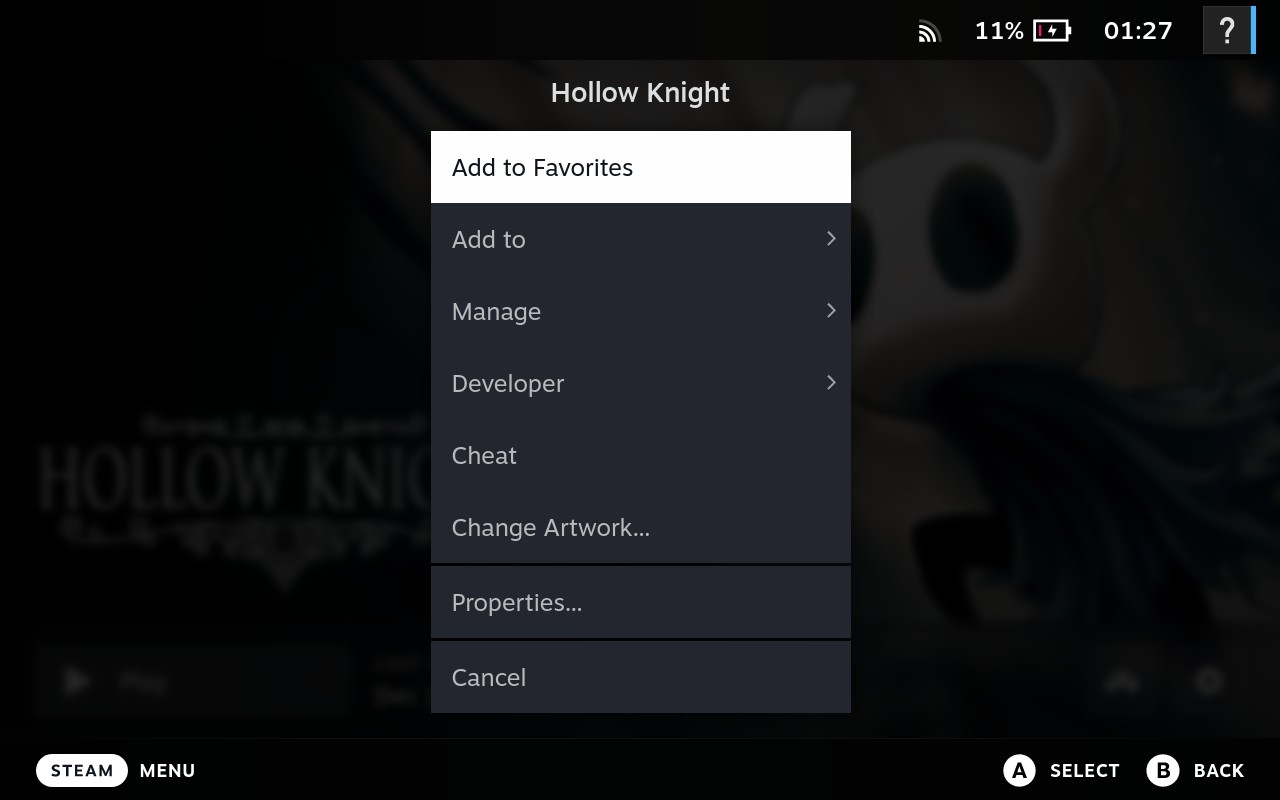
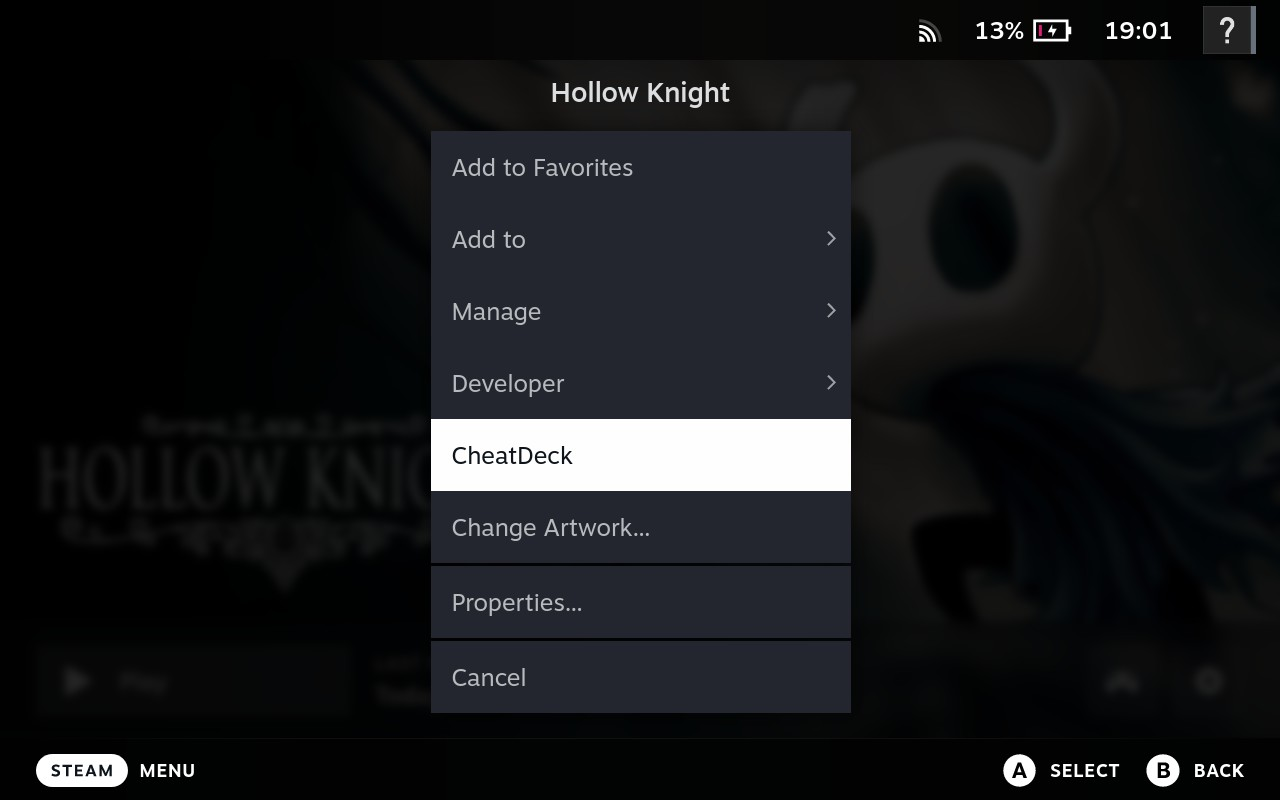
docs: more information

diff --git a/src/utils/patch.tsx b/src/utils/patch.tsx
@@ -24,7 +24,7 @@ const spliceMenuItem = (children: any[], appid: number) => {
         Navigation.Navigate(`/cheatdeck/${appid}`);
       }}
     >
-      Cheat
+      CheatDeck
     </MenuItem>
   ));
 };

diff --git a/README.md b/README.md
@@ -1,21 +1,21 @@
 # CheatDeck
-[Decky Loader](https://github.com/SteamDeckHomebrew/PluginLoader) Plugin to use cheat or trainer more conveniently, and provide language selection in game mode.
+[Decky Loader](https://github.com/SteamDeckHomebrew/PluginLoader) plugin to use cheat or trainer more conveniently, also provide  some other settings like language change in game mode.
 
 ## How to use it
 1. Enable the developer mode at steam system settings.
 2. Download the cheat or trainer you need in your steamdeck.
-3. Navigate to the game details menu, and find the `cheat` item.
-![Alt text](doc/menu.jpg)
+3. Navigate to the game details menu, and find the `CheatDeck` item.
+![](doc/menu.jpg)
 4. Enable the cheat setting and select the cheat exe file you just downloaded, then save settings.
-![Alt text](doc/settings.jpg)
+![](doc/settings.jpg)
 5. Launch the game, and the cheat windows should be shown, if not, press the `steam` key, you can switch the game and cheat windows.
-![Alt text](doc/trainer.jpg)
+![](doc/trainer.jpg)
 
 ## Tips
 - You can find some trainer at [Fling](https://flingtrainer.com/).
 - If you are unable to click on the selected cheat, please switch to windowed mode in the game settings.
-- Use the language setting if your game or cheat language  not correct (most on non-steam games).
-- DXVK ASYNC is a ProtonGE hack to skip shader compilation stutter by not waiting for shaders to compile, which could avoids the stutter (Maybe GPL?).
+- Use the language code setting if your game or cheat language not correct (most on non-steam games).
+- DXVK ASYNC(Maybe GPL?) is a ProtonGE hack to skip shader compilation stutter by not waiting for shaders to compile, which could avoids the stutter.
 
 ## Reference
 - [decky-loader](https://github.com/SteamDeckHomebrew/decky-loader)  
